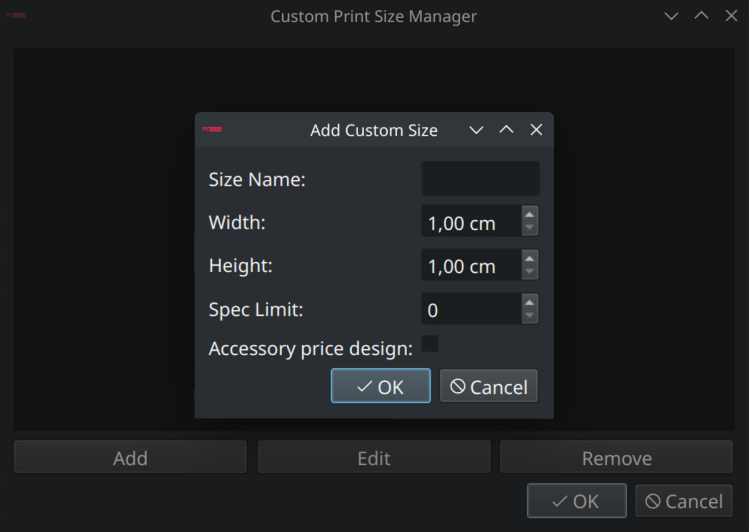
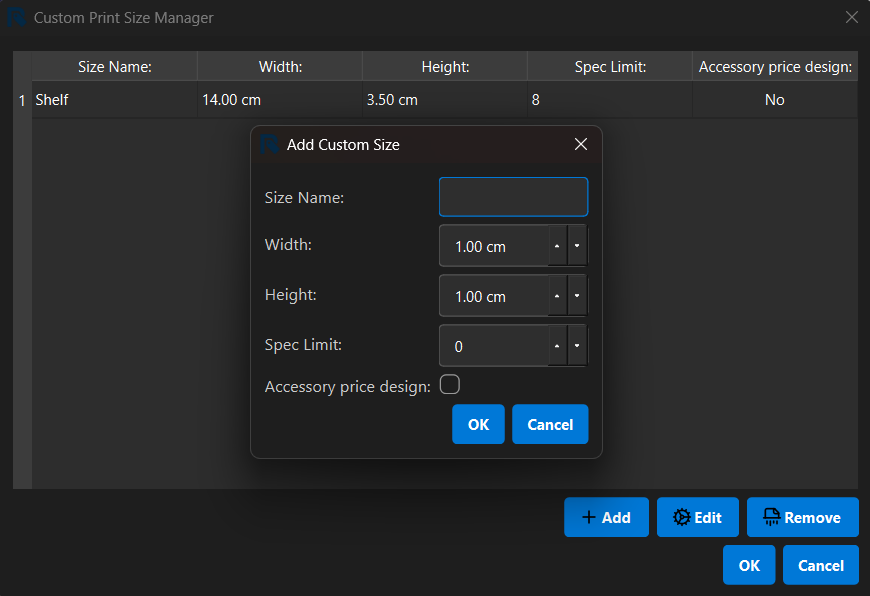
Update README screenshots and descriptions for redesigned UI components
- Replaced "Admin Dashboard" with "Logistics Window."
- Renamed "Quick Stock Checker" to "Advanced Print Queue."
- Added new screenshots: `logistics-window.png` and `print-queue.png` to reflect UI updates.

diff --git a/README.md b/README.md
@@ -73,13 +73,13 @@ Admins have access to a suite of powerful tools to manage the application and da
 
 ## 📸 Screenshots
 
-|               Main Generator Window                |                      Admin Dashboard                       |
-|:--------------------------------------------------:|:----------------------------------------------------------:|
-| ![Main Window](assets/screenshots/main-window.png) | ![Admin Dashboard](assets/screenshots/admin-dashboard.png) |
+|               Main Generator Window                |                       Logistics Window                       |
+|:--------------------------------------------------:|:------------------------------------------------------------:|
+| ![Main Window](assets/screenshots/main-window.png) | ![Logistics Window](assets/screenshots/logistics-window.png) |
 
-|                        Custom Size Manager                        |                        Quick Stock Checker                         |
-|:-----------------------------------------------------------------:|:------------------------------------------------------------------:|
-| ![Custom Size Manager](assets/screenshots/custom-size-dialog.png) | ![Quick Stock Checker](assets/screenshots/quick-stock-checker.png) |
+|                        Custom Size Manager                        |                    Advanced Print Queue                     |
+|:-----------------------------------------------------------------:|:-----------------------------------------------------------:|
+| ![Custom Size Manager](assets/screenshots/custom-size-dialog.png) | ![Advanced Print Queue](assets/screenshots/print-queue.png) |
 
 
 ## 💻 Technology Stack
